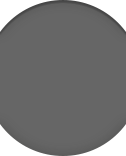
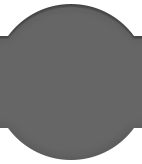
Adapt to the updated toolbar center circle asset

Changed region(s): [[0.0, 0.7692, 1.0, 1.0], [0.0, 0.0, 1.0, 0.2308]]

diff --git a/Toolbar.qml b/Toolbar.qml
@@ -21,6 +21,8 @@ Item {
         anchors.top: parent.top
         anchors.bottom: parent.bottom
         anchors.right: middle.left
+        anchors.topMargin: 4
+        anchors.bottomMargin: 4
         source: "assets/toolbar-left.sci"
 
         property int iconSpacing: (width - toolbar.iconWidth * children.length) / 3
@@ -80,14 +82,12 @@ Item {
         anchors.top: parent.top
         anchors.bottom: parent.bottom
         anchors.horizontalCenter: parent.horizontalCenter
-        height: shootButton.height + 8
+        height: shootButton.height + 20
         source: "assets/toolbar-middle.sci"
 
         ShootButton {
             id: shootButton
-            anchors.horizontalCenter: middle.horizontalCenter
-            anchors.bottom: parent.bottom
-            anchors.bottomMargin: 4
+            anchors.centerIn: parent
             iconWidth: 126
             iconHeight: 134
             state: if (camera.captureMode == Camera.CaptureVideo) {
@@ -117,6 +117,8 @@ Item {
         anchors.top: parent.top
         anchors.bottom: parent.bottom
         anchors.left: middle.right
+        anchors.topMargin: 4
+        anchors.bottomMargin: 4
         source: "assets/toolbar-right.sci"
 
         property int iconSpacing: (width - toolbar.iconWidth * children.length) / 3
